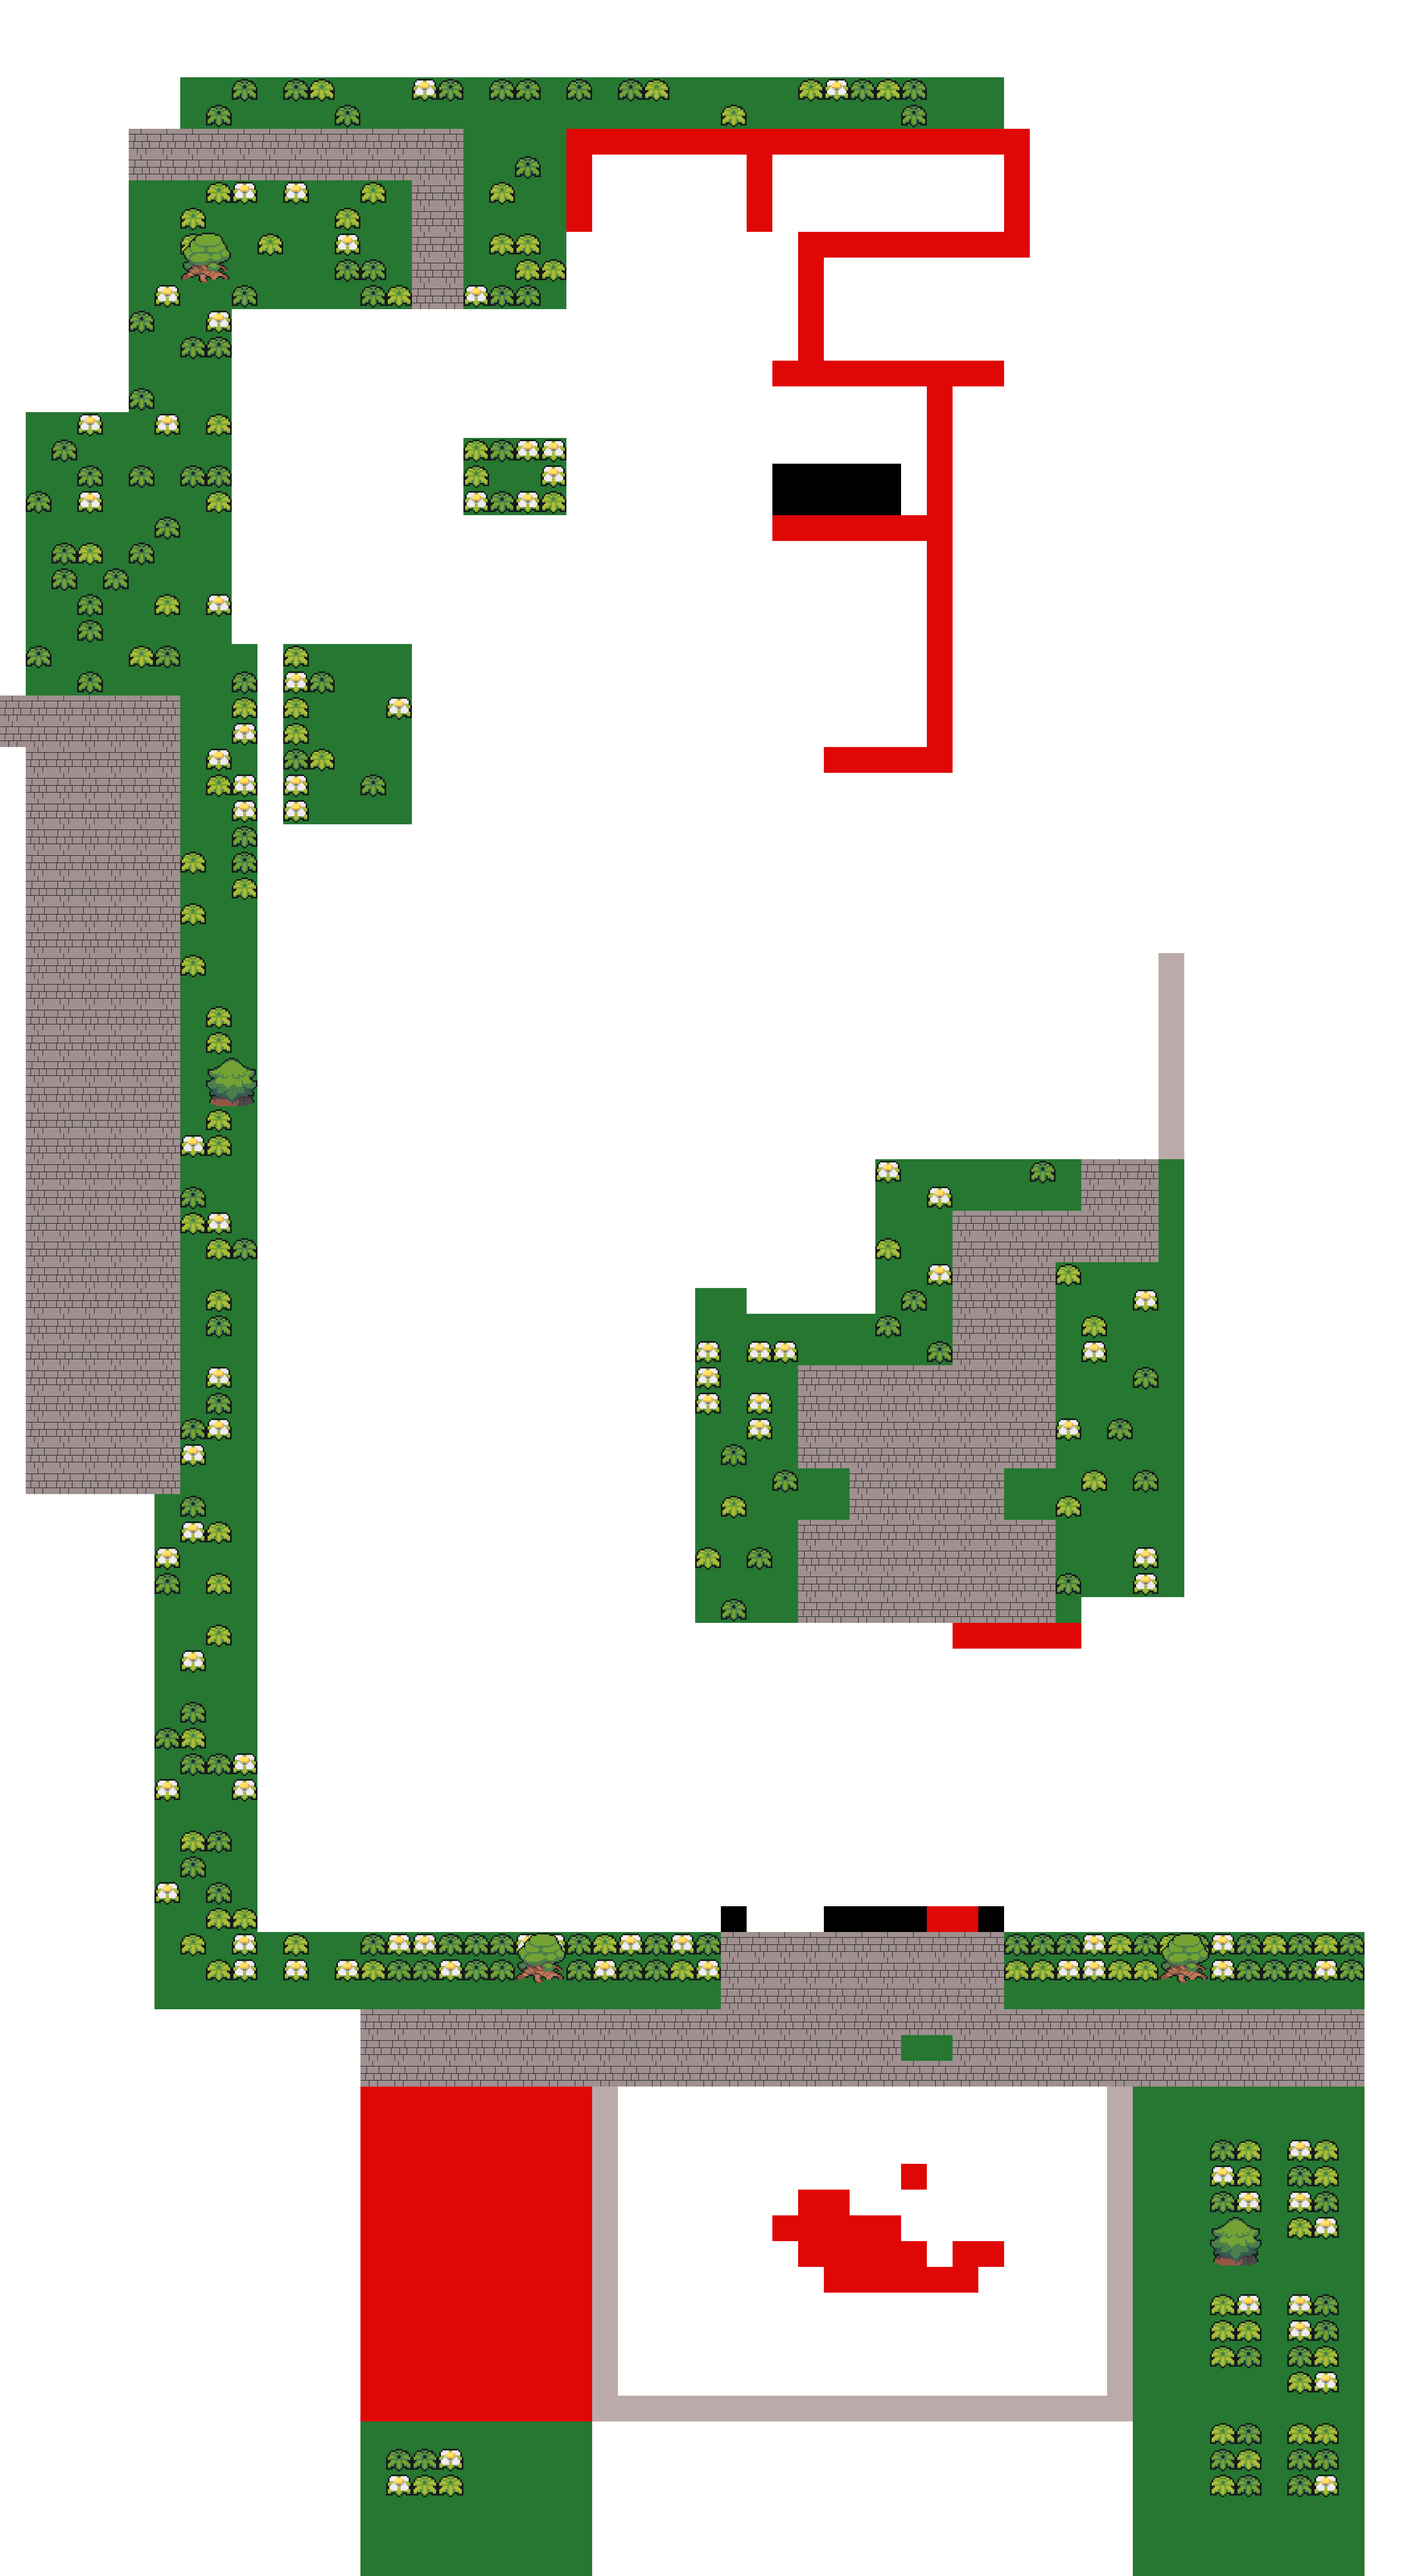
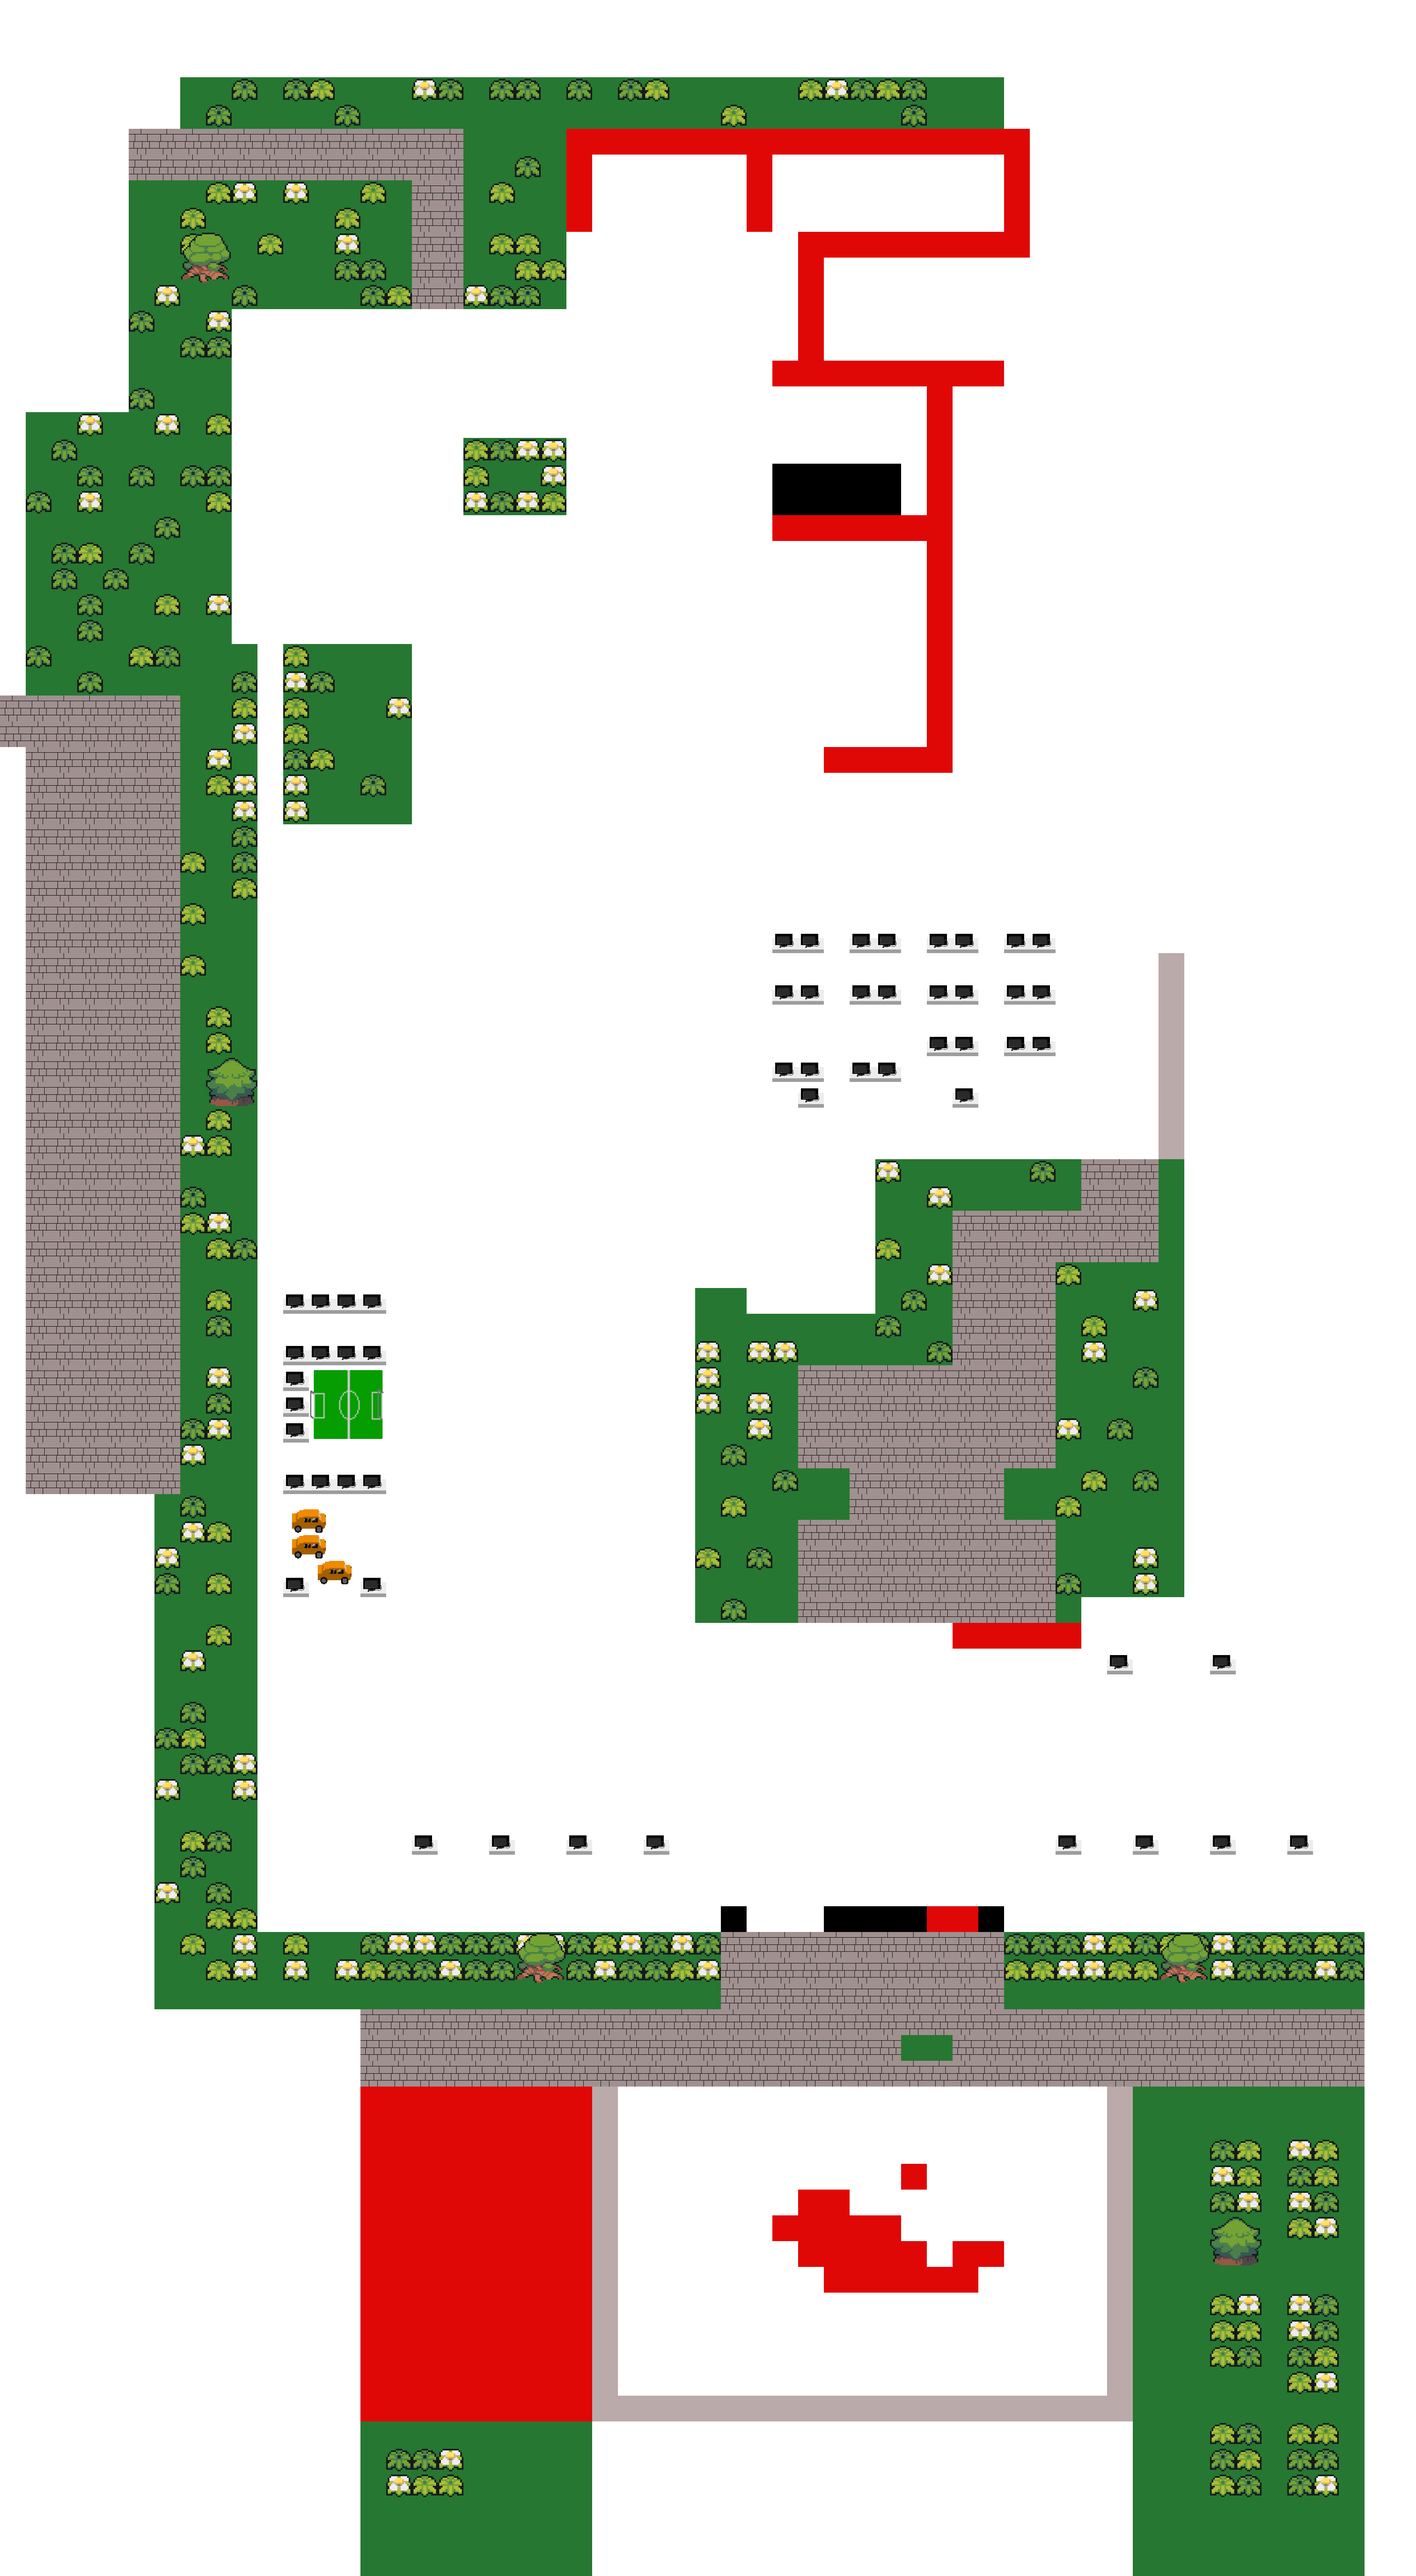
expansao do mapa

diff --git a/level.py b/level.py
@@ -63,6 +63,12 @@ class Level:
                                 surf = pygame.image.load('graphics/blocks/boundary_block.png')
                             elif coluna == '4':
                                 surf = pygame.image.load('graphics/blocks/red_block.png')
+                            elif coluna == '9':
+                                surf = pygame.image.load('graphics/blocks/wall_block.png')
+                            elif coluna == '16':
+                                surf = pygame.image.load('graphics/spritespiskel/catraca.png')
+                            elif coluna == '18':
+                                surf = pygame.image.load('graphics/spritespiskel/mesa.png')
                             Obstaculo((x,y), [self.sprites_visiveis,self.sprites_obstaculos],'none',surf)
                             
         
